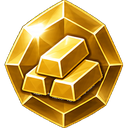
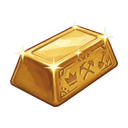
ART-08 (ART-1950S): final two gems — oil and gold — complete all ticket art
oil: deep iridescent droplet inside a vintage red drum rim
gold: stamped bullion bar with radiant specular star glints

Both compile to 128x128 transparent, dead-centre, zero magenta, clean
edges (tools/make-gem-pngs.mjs; raws archived in assets/gems-src/).
Gem unit tests (V5 'gems draw the restored sprite art') pass; build +
typecheck green.

ART-1950S authoring is now COMPLETE: 58/58 building layers and 6/6
match-3 gems carry authored 1950s art; zero placeholders remain.
PLACEHOLDERS.md updated with the completion status and the remaining
sign-off items (polish candidates, B4 deletions, B1c wiring, stray
.patch files).

diff --git a/assets/buildings-src/PLACEHOLDERS.md b/assets/buildings-src/PLACEHOLDERS.md
@@ -51,8 +51,18 @@ reference — re-run with a ratio-stating prompt if a polish pass is wanted):
 Retry technique that fixed earlier misses: state the reference's explicit
 width/height ratio in the prompt (validate-art.mjs prints aspectRef).
 
-### In progress (bonus ticket)
-- ART-08 match-3 gems in `src/assets/gems/` — 4 of 6 done (`grain`, `wood`,
-  `ore`, `stone` restyled to the 1950s brief via `tools/make-gem-pngs.mjs`,
-  raw masters archived in `assets/gems-src/`); `oil` and `gold` still use the
-  previous art
+### Done (bonus ticket)
+- ART-08 match-3 gems in `src/assets/gems/` — ALL 6 restyled to the 1950s
+  brief (`grain`, `wood`, `ore`, `stone`, `oil`, `gold`) via
+  `tools/make-gem-pngs.mjs`; raw masters archived in `assets/gems-src/`
+
+**ART-1950S art authoring is COMPLETE: every building layer (58) and every
+match-3 gem (6) carries authored 1950s art. No placeholders remain.**
+
+Open follow-ups needing user sign-off (no art generation required):
+- polish candidates: `town_townhouse_gardens_2` (1.91 vs ref 1.488),
+  `town_flats_arctic_1x1_1` (0.561 vs ref 0.64)
+- B4 audit: 74 candidate sprites confirmed unreferenced at runtime
+  (docs/art-audit-2026-09-11.md) — deletion awaiting sign-off
+- B1c: `town_house_c` art compiled but not wired into TOWN_HOUSE_VARIANTS
+- stray root `.patch` files (`01a07ce9-*.patch`, `building-layers.patch`)
